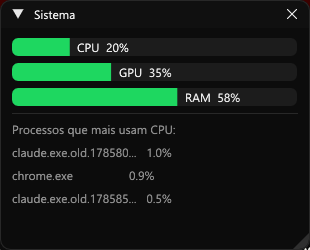
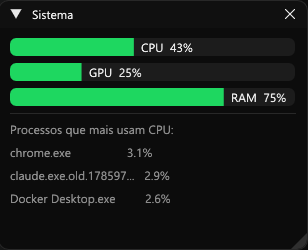
Atualiza as imagens do README para a interface nova
As imagens mostravam a versao antiga. Refeitas com o programa atual:

- Painel Musica: agora tem os icones dos servicos em coluna a esquerda,
  a barra de volume EM PE na borda direita e a engrenagem no pe da coluna
  (que abre Sistema / Config / Sair)
- Painel Config: ganhou a opcao de transparencia simples
- Os quatro servicos recapturados, todos deslogados

Os dois scripts que geram as imagens tinham coordenadas fixas da interface
antiga e recortavam no lugar errado. Atualizados, com um comentario
explicando que precisam ser conferidos sempre que a interface mudar.

Texto do README acertado onde nao batia mais: o volume deixou de ter os
botoes de mais/menos e mudo, os botoes de Sistema/Config/Sair viraram a
engrenagem, e faltava documentar a transparencia simples, o botao Parar e
a possibilidade de juntar o video ao painel Musica.

diff --git a/README.md b/README.md
@@ -56,15 +56,19 @@ janela em que você está trabalhando.
 
 <img src="docs/painel-musica.png" alt="Painel Música" width="330" align="right">
 
-Slider, botões **−** / **+** e **Mudo**, mexendo no volume geral do Windows.
+Uma barra **em pé**, colada na borda direita do painel, mexendo no volume geral
+do Windows. Passe o mouse por cima para ver o número.
 
 **Para que serve:** trocar o volume sem sair do que você está fazendo — sem
 abrir o misturador, sem procurar o ícone do alto-falante, sem tirar o foco do
-jogo ou da chamada. O botão de mudo fica **verde** quando o som está cortado,
-para você ver de longe que o microfone do vídeo não está no ar por causa disso.
+jogo ou da chamada.
 
-O valor mostrado é sempre o **real** do Windows: se você mexer no volume pelo
-teclado ou por outro programa, o slider acompanha.
+**Por que em pé:** deitada, a barra roubava a largura do painel justamente onde
+o vídeo precisa aparecer. Em pé, ela ocupa uma faixa fininha na lateral e deixa
+o meio inteiro livre.
+
+O valor é sempre o **real** do Windows: se você mexer no volume pelo teclado ou
+por outro programa, a barra acompanha.
 
 ### ⏯ Controle de mídia
 
@@ -89,6 +93,11 @@ navegador** — nenhum espaço desperdiçado com botões.
 
 - **Clique esquerdo** → abre dentro do Nimbus.
 - **Clique direito** → abre no seu navegador de verdade.
+
+**Dá para juntar o vídeo ao painel:** arraste a janelinha do player para dentro
+do painel Música e as duas viram uma só — o vídeo passa a ocupar a área central,
+com os ícones de um lado, o volume do outro e os controles embaixo. Arraste para
+fora e elas se separam de novo.
 
 <div align="center">
 
@@ -116,6 +125,9 @@ Botão **Sem vídeo** quando um serviço está aberto.
 o vídeo — **a música continua tocando** — e a janelinha some, ficando só os
 controles. O botão vira **Ver vídeo** para trazer a imagem de volta, do ponto
 onde estava.
+
+Ao lado dele fica o **Parar**, que é diferente: encerra o serviço de vez e o som
+junto. Use o *Sem vídeo* para continuar ouvindo; o *Parar* para acabar mesmo.
 
 ### 🗂 Dois modos de player (opção na Config)
 
@@ -158,6 +170,19 @@ você escolhe uma paleta e as ~20 cores da interface são **calculadas** a parti
 de 5 cores base, então nada fica desarmônico.
 
 A opacidade vale **também para o vídeo** — não só para os painéis.
+
+### 🩹 Transparência simples (a saída para a tela escura)
+
+Uma caixinha na aba Config, normalmente **desligada**.
+
+**Para que serve:** em alguns computadores, o jeito bonito de deixar o fundo
+transparente não funciona — a tela inteira escurece, como se houvesse um vidro
+fumê por cima de tudo. Ligando esta opção, o Nimbus troca por um método mais
+simples: os painéis ficam **opacos** (perde-se a transparência), mas a tela volta
+ao normal.
+
+É o clássico "feio, porém honesto": em vez de deixar você com uma tela estragada
+sem entender por quê, tem um botão que resolve.
 
 ### 🪟 Juntar painéis em abas
 
@@ -235,13 +260,13 @@ linha de comando.
 | Redimensionar | Puxe o canto inferior direito |
 | Recolher | Clique na setinha ▼ ao lado do título |
 | Levar para outro monitor | Arraste normalmente, atravessa as telas |
-| Juntar em abas | Arraste um painel sobre o outro |
+| Juntar em abas | Arraste um painel sobre o outro (vale para o vídeo também) |
 | Esconder / mostrar tudo | Tecla **Insert**, ou clique no ícone da bandeja |
 | Menu rápido | Botão direito no ícone da bandeja |
 | Abrir um serviço | Clique no ícone (direito abre no navegador) |
-| Abrir Sistema / Config | Botões no painel Música |
+| Abrir Sistema / Config | Engrenagem ⚙ no pé da coluna de ícones |
 | Voltar tudo ao lugar | **Recolocar painéis**, na aba Config |
-| Fechar o Nimbus | Botão **Sair**, ou pelo menu da bandeja |
+| Fechar o Nimbus | **Sair**, na engrenagem ⚙, ou pelo menu da bandeja |
 
 > 💡 Não achou o ícone da bandeja? Clique na **setinha `^`** ao lado do relógio: o
 > Windows esconde ali os ícones novos. Arraste o do Nimbus para fora para fixá-lo.
